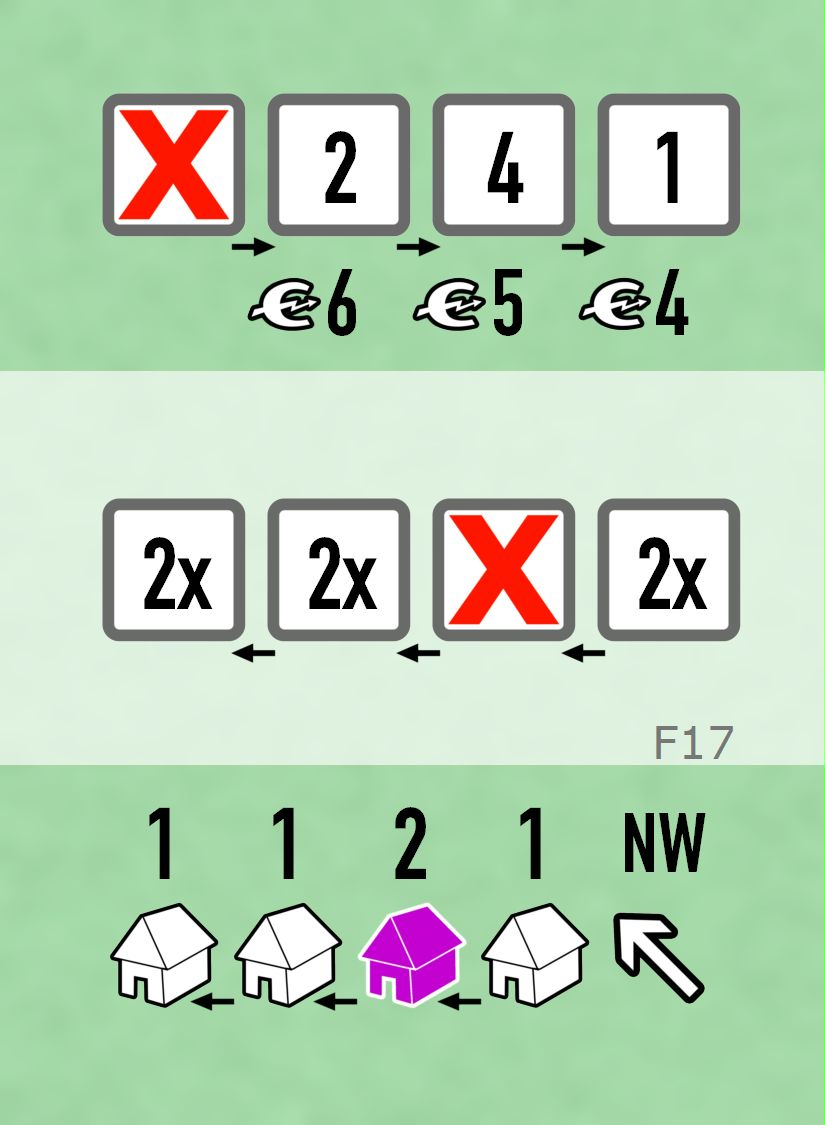
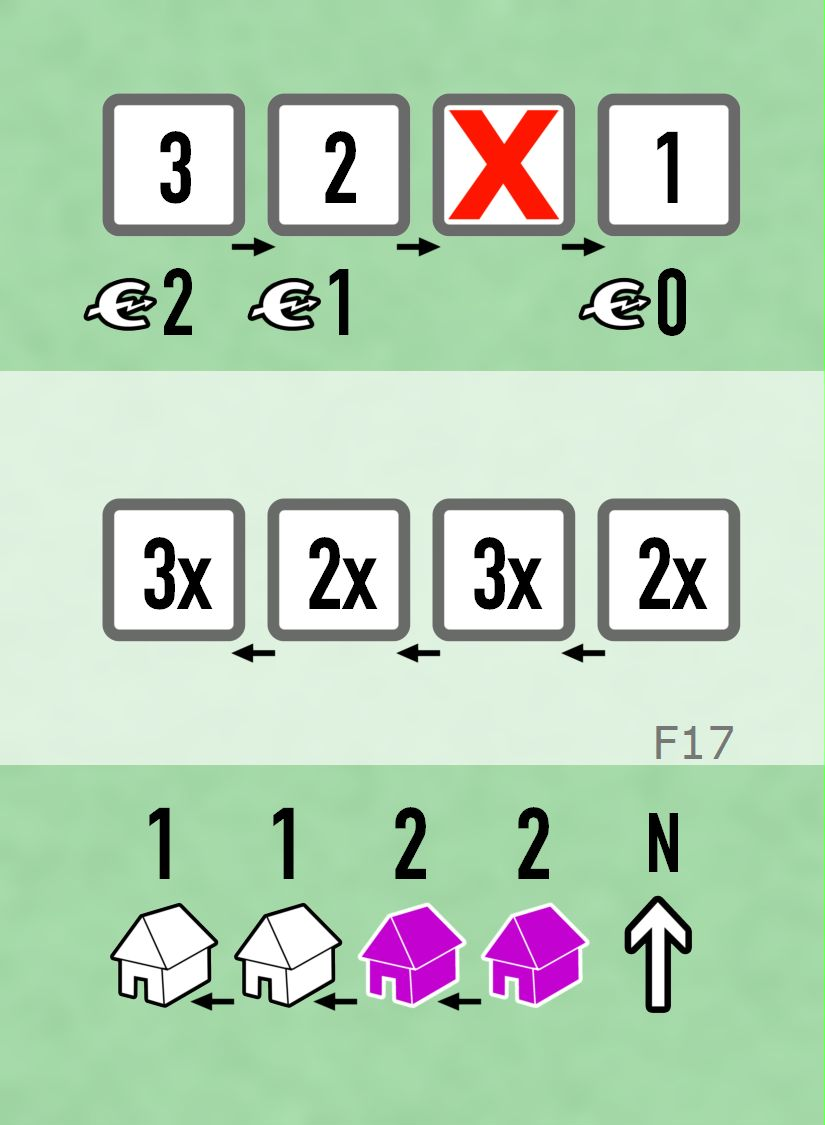
Most of the bugs worked out. Rebalanced automa deck

diff --git a/simulate.py b/simulate.py
@@ -9,14 +9,63 @@ def debug_sim(message):
 def play_games(cards,amount):
     print(f"Simulating {amount} games of Power Grid")
     tallies = [0,0]
+    results = []
     for ii in range(0,amount):
         result = play_game(cards)
-        if result:
+        results.append(result)
+        if result.human_win:
             tallies[0]+=1
         else:
             tallies[1]+=1
     percent = 100.0*(tallies[1]/(tallies[1]+tallies[0]))
     print(f"The automa won {percent}% [{tallies[1]}] games and the human won [{tallies[0]}] games")
+    average_turns = sum([x.turns_taken for x in results])/len(results)
+    print(f'On average, the game was over after [{average_turns}] turns')
+    print(f'Win stats automa-city[{sum([x.automa_city_win for x in results])/len(results)}] human-city[{sum([x.human_city_win for x in results])/len(results)}]')
+    print(f'Tiebreaker stats automa[{sum([x.automa_tiebreaker_win for x in results])/len(results)}] human[{sum([x.human_tiebreaker_win for x in results])/len(results)}]')
+
+class GameResult:
+    def __init__(self):
+        self.automa_score = 0
+        self.automa_tiebreaker = 0
+        self.human_cities = 0
+        self.human_money = 0
+        self.human_plants = []
+        self.human_power_capacity = 0
+        self.human_score = 0
+        self.human_win = False
+        self.turns_taken = 0
+        self.automa_city_win = False
+        self.human_city_win = False
+        self.automa_tiebreaker_win = False
+        self.human_tiebreaker_win = False
+
+    def calculate_winner(self):
+        # TODO Actually calculate how many plants will fire, not just capacity
+        if self.human_score > self.human_power_capacity:
+            human_score = self.human_power_capacity
+        if self.automa_score > self.human_score:
+            debug_sim("Automa wins")
+            self.automa_city_win = True
+            return False
+        if self.automa_score < self.human_score:
+            debug_sim("Human wins")
+            self.human_city_win = True
+            return True
+        if self.automa_score == self.human_score:
+            if self.human_power_capacity < self.human_score:
+                debug_sim("Automa wins")
+                self.tiebreaker_automa_win = True
+                return False
+            else:
+                if self.human_money <= self.automa_tiebreaker:
+                    debug_sim(f"Automa wins with tiebreaker. Human money ${self.human_money} to {self.automa_tiebreaker()}")
+                    self.tiebreaker_automa_win = True
+                    return False
+                else:
+                    debug_sim(f"Human wins with tiebreaker. Human money ${self.human_money} to {self.automa_tiebreaker}")
+                    self.human_tiebreaker_win = True
+                    return True
 
 def play_game(cards):
     game_map = game_data.fresh_map()
@@ -132,26 +181,19 @@ def play_game(cards):
     human.debug()
     debug_sim(f"Automa score {automa_score}")
     debug_sim(f"Human score {human_score} cities and power {human.power_capacity()}")
-    # TODO Actually calculate how many plants will fire, not just capacity
-    if human_score > human.power_capacity():
-        human_score = human.power_capacity()
-    if automa_score > human_score:
-        debug_sim("Automa wins")
-        return False
-    if automa_score < human_score:
-        debug_sim("Human wins")
-        return True
-    if automa_score == human_score:
-        if human.power_capacity() < human_score:
-            debug_sim("Automa wins")
-            return False
-        else:
-            if human.money <= automa.tiebreaker():
-                debug_sim(f"Automa wins with tiebreaker. Human money ${human.money} to {automa.tiebreaker()}")
-                return False
-            else:
-                debug_sim(f"Human wins with tiebreaker. Human money ${human.money} to {automa.tiebreaker()}")
-                return True
+    result = GameResult()
+    result.human_score = human_score
+    result.automa_score = automa_score
+    result.turns_taken = turn_count
+    result.human_money = human.money
+    result.human_power_capacity = human.power_capacity()
+    result.automa_tiebreaker = automa.tiebreaker()
+    result.human_plants = [x.cost for x in human.plants]
+    result.automa_plants = [x.cost for x in automa.plants]
+    result.human_win = result.calculate_winner()
     debug_sim(f"The game took {turn_count} turns")
+    return result
+
+
 
 

diff --git a/generate.py b/generate.py
@@ -3,6 +3,8 @@ import itertools
 import random
 import simulate
 
+GAMES_TO_SIMULATE = 1000
+
 builds = [0,0,1,1,1,1,1,1,1,1,1,1,1,1,2,2,2,2,2,2,2,2,2,2]
 market_slots = [1,2,3,4]
 compass = [1,2,3,4,5,6,7,8]
@@ -41,9 +43,9 @@ manual_markets = [
 manual_builds = [
     [1,0,1,1],
     [1,2,1,2],
+    [1,0,2,1],
+    [1,2,1,1],
     [1,1,2,1],
-    [1,2,1,2],
-    [2,1,2,1],
     [1,2,2,1],
     [1,1,2,1],
     [2,1,1,2],
@@ -51,16 +53,16 @@ manual_builds = [
     [1,2,1,1],
     [2,1,1,1],
     [2,2,1,1],
-    [2,1,2,1],
-    [2,1,2,1],
+    [1,1,2,0],
+    [2,1,1,1],
     [1,2,1,2],
     [2,1,1,2],
     [1,2,2,1],
     [2,2,1,1],
     [1,1,2,2],
-    [1,2,1,2],
-    [2,1,2,1],
-    [1,2,1,1],
+    [1,1,1,2],
+    [2,1,1,1],
+    [1,1,1,1],
     [1,1,2,2],
     [1,1,0,2]
 ]
@@ -270,4 +272,4 @@ print('\n\n')
 print(f"The longest the automa will take is {low_turn} turns")
 print(f"The shortest the automa will take is {high_turn} turns")
 
-simulate.play_games(cards,1000)
+simulate.play_games(cards,GAMES_TO_SIMULATE)

diff --git a/game_data.py b/game_data.py
@@ -615,6 +615,7 @@ class Automa:
         self.build_target = None
 
     def tiebreaker(self):
+        # TODO Variant - Average of plants, not highest
         return self.plants[0].cost
 
     def draw_card(self):
